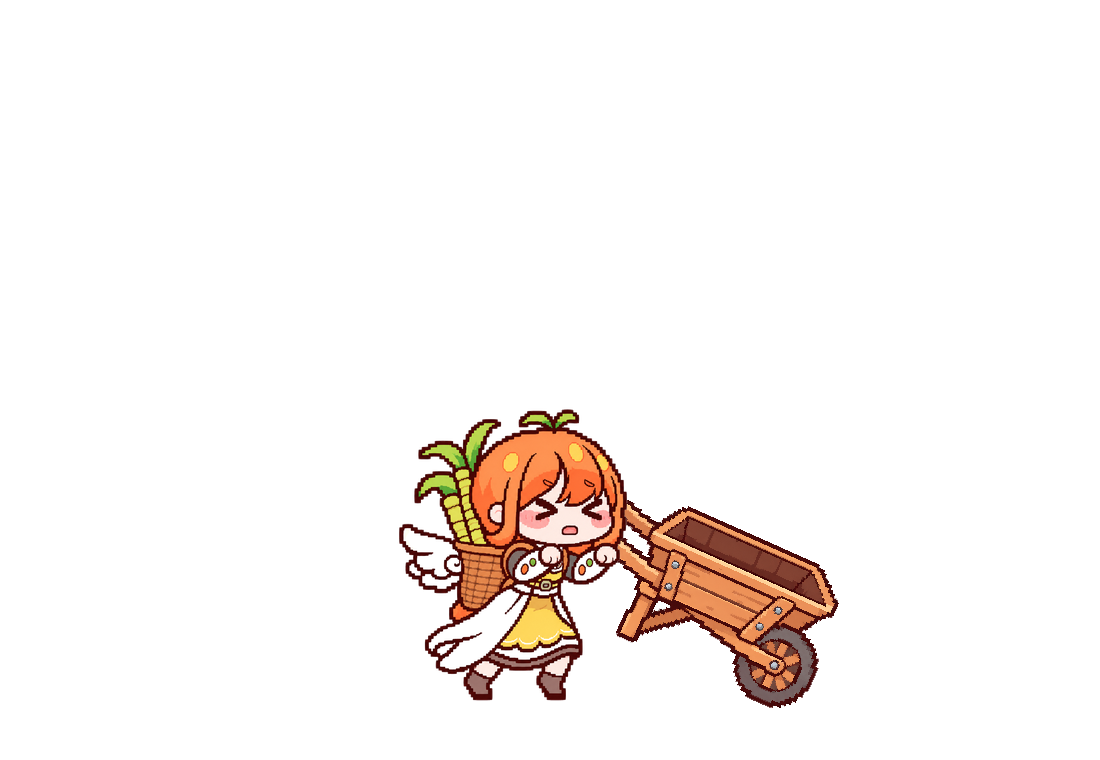
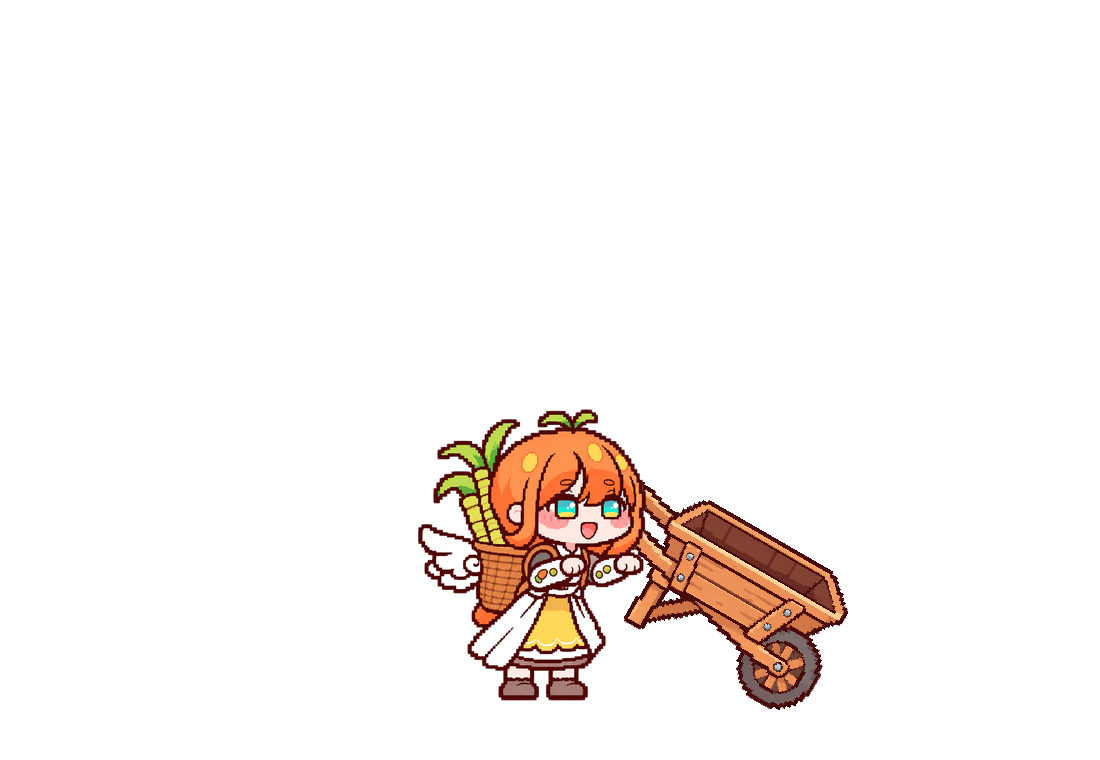
엉덩방아 크기 원래대로(잘못 줄였던 것 복구), 수레 엎기: 내리는 자세 2장 새로 그려 같은 그림 반복 없앰, 쏟은 뒤 손잡이 다시 잡기

Changed region(s): [[0.34, 0.5145, 0.7727, 0.9382]]

diff --git a/tools/web_extra.py b/tools/web_extra.py
@@ -123,7 +123,7 @@ def build(out_dir, stamp):
     for i, f in enumerate(dm["frames"]):
         d = load(os.path.join(FR, f"dump_{i}.png")); d = d.resize((round(d.width * kk), round(d.height * kk)), Image.NEAREST)
         ox = 60 - dm["frames"][0]["foot"][0] * kk + 200; oy = Y - dm["ground"] * kk if "ground" in dm else Y - f["foot"][1] * kk
-        steps = max(1, f["ms"] // 80)
+        steps = max(1, f["ms"] // 80) if (flies or (i == 3 and stack)) else 1  # 짐이 날아갈 때만 쪼개고, 같은 그림 반복 없음
         for st in range(steps):
             c = Image.new("RGBA", (CW, CH), (255, 255, 255, 255)); c.alpha_composite(d, (round(ox), round(oy)))
             if i == 3 and st == 0 and stack:
@@ -133,6 +133,7 @@ def build(out_dir, stamp):
                 stack = []
             for j, it in enumerate(stack):
                 sc.item(c, it, ox + f["bin"][0] * kk + (j % 3 - 1) * 20, oy + f["bin"][1] * kk - (j // 3) * 18, ((j * 53) % 21 - 10) + f["tilt"])
+            flies = [fl for fl in flies if fl[1] < CW + 80 and fl[2] < CH + 80]  # 화면 밖으로 나간 짐은 뺌
             for fl in flies:
                 dt = 0.08; fl[4] += 3.2 * dt; fl[1] += fl[3] * CHAR_H * dt; fl[2] += fl[4] * CHAR_H * dt; fl[6] += fl[5] * dt
                 sc.item(c, fl[0], fl[1], fl[2], fl[6])

diff --git a/tools/build_web.py b/tools/build_web.py
@@ -17,7 +17,7 @@ SIZE = 512
 # 땅에서 올라오는 중간 자세는 머리가 스탠딩보다 낮아야 올라오는 느낌이 난다
 DROP = {}
 # 머리 폭 자동 측정이 안 맞는 프레임은 눈으로 맞춘 배율을 쓴다(스탠딩 머리 크기 기준)
-SCALE = {"fall_0": 0.83, "fall_1": 0.83, "fall_2": 0.83, "m05_harvest": 0.92, "m05b_harvest": 0.89, "k05_harvest": 0.97, "h01_notice": 0.98, "h03_popout": 0.85, "i02a_rub": 1.0, "i02_rub": 1.0}
+SCALE = {"fall_0": 1.0, "fall_1": 1.0, "fall_2": 1.0, "m05_harvest": 0.92, "m05b_harvest": 0.89, "k05_harvest": 0.97, "h01_notice": 0.98, "h03_popout": 0.85, "i02a_rub": 1.0, "i02_rub": 1.0}
 
 # 모션 = (이름, 설명, [(파일, 보여줄 시간 ms, 바닥 맞춤 여부)])
 MOTIONS = [

diff --git a/tools/dump_compose.py b/tools/dump_compose.py
@@ -66,7 +66,8 @@ def compose(pose, tilt, wheel_x=None, char_h=320):
     return c, (foot_x, foot_y), (wheel_x + bx, ground + by), wheel_x
 
 
-SEQ = [("push_a", 0, 220), ("dump_p1", 16, 220), ("dump_p2", 32, 220), ("dump_p3", 48, 650), ("dump_p2", 24, 240), ("dump_p1", 10, 200), ("dump_p4", 0, 700)]
+SEQ = [("push_a", 0, 200), ("dump_p1", 16, 200), ("dump_p2", 32, 200), ("dump_p3", 48, 380),
+       ("dump_l1", 30, 180), ("dump_l2", 14, 170), ("push_a", 0, 160), ("dump_p4", 0, 420), ("bw2_regrip", 0, 140), ("push_a", 0, 400)]
 
 if __name__ == "__main__":
     meta = []

diff --git a/tools/export_overlay.py b/tools/export_overlay.py
@@ -27,7 +27,7 @@ FRAMES = [
     "h01_notice", "m05_harvest", "m05b_harvest_v2", "h03_popout", "k05_harvest",
     "m06_invite", "m06b_invite", "k06_invite",
     "fall_0", "fall_1", "fall_2",
-    "push_a", "push_pass_a", "push_b", "push_pass_b", "bw2_toss", "bw2_regrip", "bw2_lift", "wn_tug", "wn_rise", "bw2_windup", "dump_p1", "dump_p2", "dump_p3", "dump_p4",
+    "push_a", "push_pass_a", "push_b", "push_pass_b", "bw2_toss", "bw2_regrip", "bw2_lift", "wn_tug", "wn_rise", "bw2_windup", "dump_p1", "dump_p2", "dump_p3", "dump_p4", "dump_l1", "dump_l2",
 ]
 
 
